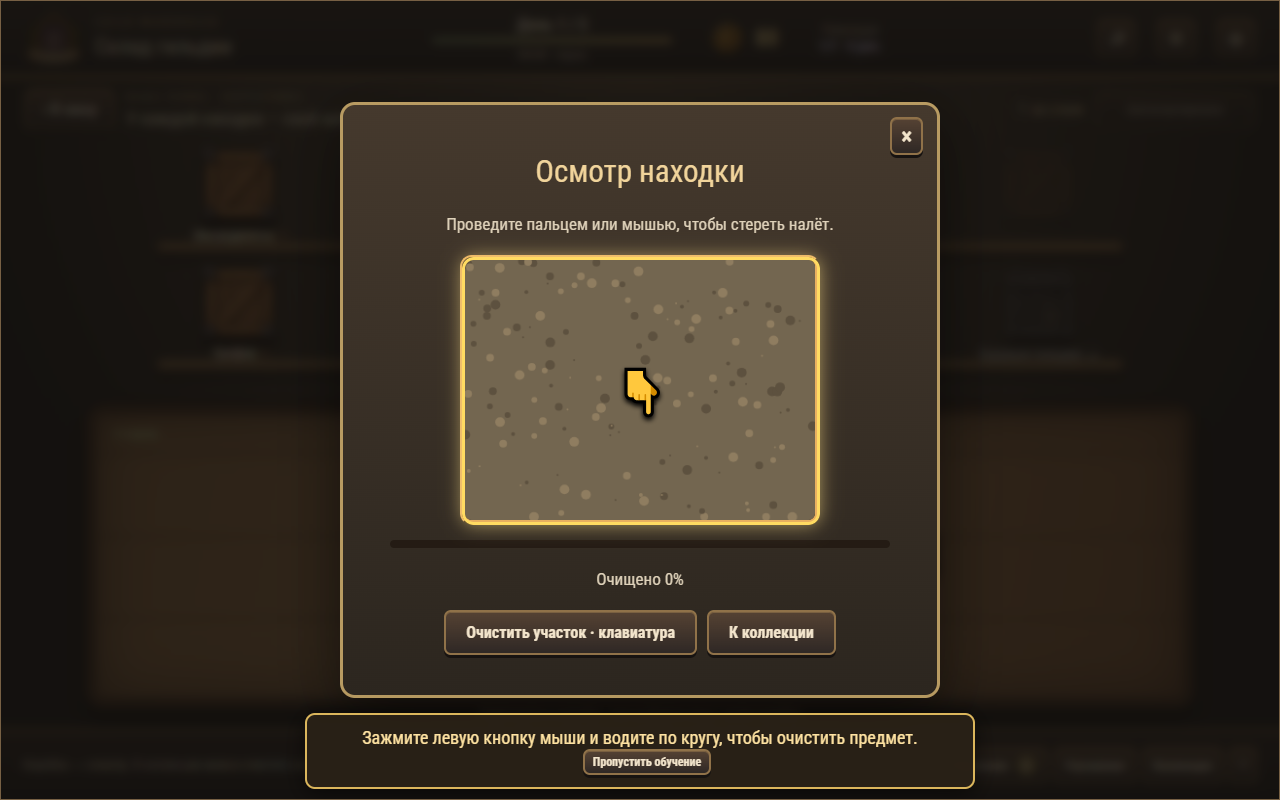
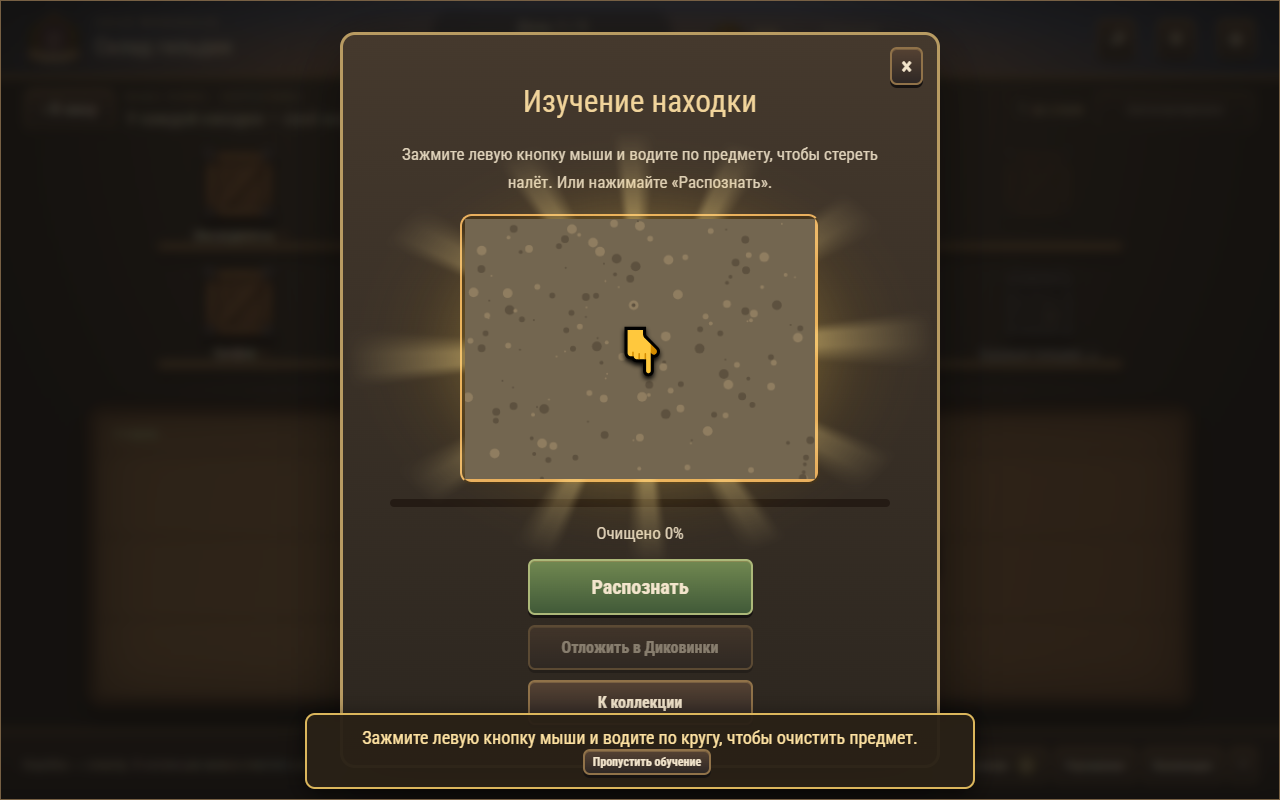
Поправки подсветки предметов
Золотая аура вместо рамок, более мягкая пульсация с замедлением на 30%. Обновлено обучение, изучение неизвестных предметов одним кликом и освещение по периодам суток.

diff --git a/dist/game.js b/dist/game.js
@@ -141,11 +141,27 @@ function modal(html,{locked=false,wide=false,brief=false}={}){
 }
 function closeModal(){if(modalLocked)return;modalCleanup?.();modalCleanup=null;hidden('modal',true);lockBackground(false);state.paused=false;last=performance.now();previousFocus?.isConnected&&previousFocus.focus();updateHud();save();}
 function forceCloseModal(){modalLocked=false;closeModal();}
+function updateDaylight(){
+  const progress=Math.max(0,Math.min(1,1-state.seconds/CONFIG.daySeconds));
+  const periods=['morning','day','evening','night'],labels=['Утро','День','Вечер','Ночь'],stops=[0,.4,.76,1];
+  const phase=progress<.25?0:progress<.65?1:progress<.88?2:3;
+  const sky=$('daylight');
+  if(sky){
+    let segment=0;while(segment<2&&progress>stops[segment+1])segment++;
+    const blend=(progress-stops[segment])/(stops[segment+1]-stops[segment]);
+    periods.forEach((period,i)=>{const weight=i===segment?1-blend:i===segment+1?blend:0;sky.children[i].style.opacity=weight;$('game').style.setProperty('--light-'+period,weight);});
+  }
+  $('clock').textContent=labels[phase];
+  // Future ambient sound can subscribe to a single event per period change.
+  if($('game').dataset.period!==periods[phase]){
+    $('game').dataset.period=periods[phase];
+    $('game').dispatchEvent(new CustomEvent('dayperiodchange',{detail:{period:periods[phase]}}));
+  }
+}
 function updateHud(){
   $('upgradesNav')?.classList.toggle('upgrade-prompt',state.started&&!state.upgradeHintSeen&&(state.day>1||(state.day===1&&state.ended)));
-  const minutes=Math.floor((1-state.seconds/CONFIG.daySeconds)*720)+480;
   $('dayLabel').textContent=`День ${state.day} / 5`;
-  $('clock').textContent=`${String(Math.floor(minutes/60)).padStart(2,'0')}:${String(minutes%60).padStart(2,'0')} · ${state.paused?'пауза':state.seconds===0?'вечер':minutes<720?'утро':minutes<1020?'день':'вечер'}`;
+  updateDaylight();
   $('sunbar').style.width=state.seconds/CONFIG.daySeconds*100+'%';$('gold').textContent=state.gold;
   $('rep').textContent=`${rank()+1}/7 · ${state.rep} реп.`;$('orderBadge').textContent=allOrders().filter(o=>o.accepted!==false).length;
   $('sound').textContent=state.muted?'♫̸':'♫';$('sound').setAttribute('aria-label',state.muted?'Включить звук':'Выключить звук');
@@ -380,11 +396,11 @@ function renderItems(area,list,kind){
 function clickItem(x,kind,e){
   if(state.paused||state.autoSorting)return;
   if(state.inspectCat!==null&&!['inspect','junk','target'].includes(kind))return;
+  if(isUnknown(x)){cancelDrag();openUnknown(x);return;}
   const node=e?.currentTarget||document.querySelector(`.item[data-uid="${x.uid}"][data-kind="${kind}"]`);if(!node)return;
   const r=node.getBoundingClientRect();cancelDrag();state.selected=x.uid;
   drag={uid:x.uid,item:x,node,kind,x:r.left+r.width/2,y:r.top+r.height/2,grabX:r.width/scale/2,grabY:r.height/scale/2,active:false,clickHeld:true};
   liftItem();moveHeld(e?.clientX||drag.x,e?.clientY||drag.y);
-  if(isUnknown(x))showHeldRecognition(x,drag.ghost);
 }
 function trackSortingBag(loot){
   state.sortingBatches??=[];
@@ -565,9 +581,7 @@ function sweep(){if(!state.upgrade||state.paused||!state.bag.length)return;state
 function rarity(type){return type===17||type===23?'Легендарная':type===15||type===28?'Эпическая':type%5===0?'Редкая':'Простая';}
 function openUnknown(x){
   if(state.paused||state.autoSorting||!isUnknown(x))return;
-  modal(`<h2>Неизвестная находка</h2><div class="unknown-preview mystery-item"><img src="${asset(items[x.type].sprite)}" alt="Неизвестная находка"><span class="mystery-question">?</span></div><p>Очистите предмет, чтобы распознать его.</p><button id="inspectUnknown" class="primary">Распознать</button><button id="stashUnknown" ${!state.upgrade||state.junk.includes(x)?'disabled':''}>${state.junk.includes(x)?'Уже в Диковинках':state.upgrade?'Отложить в Диковинки':'Диковинки — сначала откройте сундук'}</button>`);
-  $('inspectUnknown').onclick=()=>openCleaning(x.type,x);
-  $('stashUnknown').onclick=()=>{if(!state.upgrade||state.junk.includes(x))return;state.bag=state.bag.filter(y=>y!==x);state.stock=state.stock.filter(y=>y!==x);state.junk.push(x);closeModal();render();if(state.inspectCat!==null)renderInspection();save();};
+  openCleaning(x.type,x);
 }
 function recognizeItem(type,instance){
   const newlyKnown=!state.collection.includes(type),wasUnknown=instance&&isUnknown(instance);
@@ -586,14 +600,15 @@ function openCollection(){
 }
 function openCleaning(type,instance=owned().find(x=>x.type===type&&isUnknown(x))){
   const it=items[type],done=state.collection.includes(type);
-  modal(`<h2 id="recognitionTitle">${done?it.name:'Осмотр находки'}</h2><p>${done?'Вы распознали эту находку и записали её название в атлас.':'Проведите пальцем или мышью, чтобы стереть налёт.'}</p><div class="clean-stage"><img src="${asset(it.sprite)}" alt="${done?it.name:'Неизученная находка'}"><canvas id="dirt" width="360" height="270" aria-label="Стирайте налёт с находки"></canvas></div><div class="clean-meter"><i id="cleanBar" style="width:${done?100:0}%"></i></div><p id="cleanStatus">${done?'✓ Распознано: '+it.name:'Очищено 0%'}</p><div class="modal-actions"><button id="cleanKey">Очистить участок · клавиатура</button><button id="backCollection">К коллекции</button></div>`);
+  modal(`<h2 id="recognitionTitle">${done?it.name:'Изучение находки'}</h2><p>${done?'Вы распознали эту находку и записали её название в атлас.':'Зажмите левую кнопку мыши и водите по предмету, чтобы стереть налёт. Или нажимайте «Распознать».'}</p><div class="clean-stage"><img src="${asset(it.sprite)}" alt="${done?it.name:'Неизученная находка'}"><canvas id="dirt" width="360" height="270" aria-label="Стирайте налёт с находки"></canvas></div><div class="clean-meter"><i id="cleanBar" style="width:${done?100:0}%"></i></div><p id="cleanStatus">${done?'✓ Распознано: '+it.name:'Очищено 0%'}</p><div class="modal-actions recognition-actions"><button id="cleanKey" class="primary" title="Очистить следующий участок предмета">Распознать</button><button id="stashUnknown" ${!instance||!isUnknown(instance)||!state.upgrade||state.junk.includes(instance)?'disabled':''}>Отложить в Диковинки</button><button id="backCollection">К коллекции</button></div>`);
   const canvas=$('dirt'),ctx=canvas.getContext('2d',{willReadFrequently:true});let down=false,complete=done,strokes=0;
   if(!done){ctx.fillStyle='#736650';ctx.fillRect(0,0,360,270);for(let i=0;i<150;i++){ctx.fillStyle=i%2?'#8f7d60':'#5d513f';ctx.beginPath();ctx.arc(Math.random()*360,Math.random()*270,rand(1,5),0,7);ctx.fill();}}
-  function check(){if(complete)return;const data=ctx.getImageData(0,0,360,270).data;let clear=0;for(let i=3;i<data.length;i+=16)if(data[i]<50)clear++;const pct=Math.round(clear/(data.length/16)*100);$('cleanBar').style.width=pct+'%';$('cleanStatus').textContent=`Очищено ${pct}%`;if(pct>=85){complete=true;ctx.clearRect(0,0,360,270);recognizeItem(type,instance);$('cleanBar').style.width='100%';$('recognitionTitle').textContent=it.name;$('cleanKey').disabled=true;render();if(state.inspectCat!==null)renderInspection();save();beep();}}
+  function check(){if(complete)return;const data=ctx.getImageData(0,0,360,270).data;let clear=0;for(let i=3;i<data.length;i+=16)if(data[i]<50)clear++;const pct=Math.round(clear/(data.length/16)*100);$('cleanBar').style.width=pct+'%';$('cleanStatus').textContent=`Очищено ${pct}%`;if(pct>=85){complete=true;ctx.clearRect(0,0,360,270);recognizeItem(type,instance);$('cleanBar').style.width='100%';$('recognitionTitle').textContent=it.name;$('cleanKey').disabled=true;$('cleanKey').textContent='Распознано';$('stashUnknown').disabled=true;render();if(state.inspectCat!==null)renderInspection();save();beep();}}
   function erase(x,y){if(complete)return;ctx.globalCompositeOperation='destination-out';ctx.beginPath();ctx.arc(x,y,33,0,Math.PI*2);ctx.fill();check();}
   function point(e){const r=canvas.getBoundingClientRect();erase((e.clientX-r.left)/r.width*360,(e.clientY-r.top)/r.height*270);}
   canvas.onpointerdown=e=>{down=true;canvas.setPointerCapture(e.pointerId);point(e);};canvas.onpointermove=e=>{if(down)point(e);};canvas.onpointerup=canvas.onpointercancel=()=>down=false;
-  $('cleanKey').disabled=done;$('cleanKey').onclick=()=>{erase(20+(strokes%8)*45,20+Math.floor(strokes/8)*45);strokes++;};
+  $('cleanKey').disabled=done;if(done)$('cleanKey').textContent='Распознано';$('cleanKey').onclick=()=>{erase(20+(strokes%8)*45,20+Math.floor(strokes/8)*45);strokes++;};
+  $('stashUnknown').onclick=()=>{if(!instance||!isUnknown(instance)||!state.upgrade||state.junk.includes(instance))return;state.bag=state.bag.filter(x=>x!==instance);state.stock=state.stock.filter(x=>x!==instance);delete instance.boxPos;state.junk.push(instance);closeModal();render();if(state.inspectCat!==null)renderInspection();save();};
   $('backCollection').onclick=()=>{closeModal();openCollection();};
 }
 function openRanks(){if(state.paused)return;modal(`<h2>Имя вашей лавки</h2><p>Репутация: ${state.rep}. За выданный заказ +4.<br>В этой истории доступны первые три ранга.</p><div class="rank-list">${rankNames.map((name,i)=>`<div class="rank-row ${i===rank()?'current':''} ${i>2?'locked':''}"><span>${i+1}. ${name}</span><span>${i>2?'🔒 позже':i===rank()?'Ваш ранг':i<rank()?'✓':i*12+' реп.'}</span></div>`).join('')}</div>`);}
@@ -647,6 +662,7 @@ function loadGame(){try{const s=JSON.parse(localStorage.getItem(SAVE_KEY));if(s?
 function help(){if(state.paused)return;modal('<h2>Как работает лавка</h2><div class="rules"><b>Закупка.</b> Купите мешок за 10 монет. Содержимое заранее неизвестно.<br><b>Порядок.</b> Перетаскивайте вещи на полки. Или нажмите вещь, затем коробку. Ошибка подскажет категорию.<br><b>Заказ.</b> Листок справа. Недостающее появится в новых мешках. Откройте коробку и отправляйте нужное в посылку.<br><b>Диковинки.</b> За 20 монет купите временную коробку и убирайте остаток мешка одним действием.<br><b>Атлас.</b> Очистите находку и сохраните её изображение. Товар остаётся для продажи.<br><b>Вечер.</b> Новые приходы прекращаются; закончите дела и нажмите «Закончить день».</div>');}
 
 function setup(){
+  const sky=document.createElement('div');sky.id='daylight';sky.setAttribute('aria-hidden','true');sky.innerHTML='<i class="sky-morning"></i><i class="sky-day"></i><i class="sky-evening"></i><i class="sky-night"></i>';$('game').querySelector(':scope > header').prepend(sky);
   hidden('tooltip',true);$('tooltip').setAttribute('role','tooltip');
   const board=document.createElement('aside');board.id='orderBoard';board.className='hidden';board.setAttribute('aria-label','Принятые поручения');$('game').append(board);
   $('game').addEventListener('pointerover',e=>{

diff --git a/dist/prototype.css b/dist/prototype.css
@@ -291,15 +291,13 @@ html,body,body *,body *::before,body *::after{font-family:'Roboto Condensed',san
 #work:has(#inspector.junk-open:not(.hidden)) #checklist{visibility:hidden}
 #effects:has(#tutorialGuide){z-index:1500}
 #tutorialGuide{position:absolute;inset:0;z-index:1500;pointer-events:none}
-.tutorial-ring{position:absolute;border:3px solid #ffdb62;border-radius:12px;box-shadow:0 0 18px #ffe18799;animation:tutorialPulse 1s ease-in-out infinite}
 .tutorial-hand{position:absolute;font-size:44px;line-height:1;text-shadow:0 3px 5px #000;animation:tutorialPoint 1s ease-in-out infinite}
 .tutorial-note{position:absolute;bottom:10px;left:50%;transform:translateX(-50%);width:670px;max-width:90%;padding:12px 16px;background:#292016f5;border:2px solid #dbb65c;border-radius:10px;text-align:center;color:#ffe3a2;box-shadow:0 5px 22px #0008;font-size:18px}
 .tutorial-note button{pointer-events:auto;font-size:12px;padding:4px 8px;margin-left:14px}
 .cleaning .tutorial-hand{animation:tutorialClean 1.7s linear infinite}
-@keyframes tutorialPulse{50%{box-shadow:0 0 28px #ffdc63;opacity:.65}}
 @keyframes tutorialPoint{50%{transform:translateY(10px)}}
 @keyframes tutorialClean{0%{transform:translate(40px,0)}25%{transform:translate(0,35px)}50%{transform:translate(-40px,0)}75%{transform:translate(0,-35px)}100%{transform:translate(40px,0)}}
-@media(prefers-reduced-motion:reduce){.tutorial-ring,.tutorial-hand,.cleaning .tutorial-hand{animation:none}}
+@media(prefers-reduced-motion:reduce){.tutorial-hand,.cleaning .tutorial-hand{animation:none}}
 
 /* Guest alert stays above the workbench, open boxes and dialogs. */
 #arrivalSignal{bottom:82px;left:28px;z-index:400000;pointer-events:auto}
@@ -320,3 +318,52 @@ html,body,body *,body *::before,body *::after{font-family:'Roboto Condensed',san
 #orderBoard .order-card small{grid-column:2;grid-row:1;font-size:11px}
 .order-card-action{grid-column:2;grid-row:2;font-size:13px;color:#4d5428}
 @media(prefers-reduced-motion:reduce){#arrivalSignal.waiting:not(.compact),#ship.dispatch-ready{animation:none}}
+
+/* Soft radial rays replace interaction outlines and tutorial frames. */
+:where(button,[role="button"]){position:relative;isolation:isolate}
+:where(.clean-stage,#parcelDrop){isolation:isolate}
+:where(button,[role="button"],#parcelDrop,.clean-stage)::after{
+ content:'';position:absolute;inset:-24%;z-index:-1;pointer-events:none;border:0;border-radius:50%;opacity:0;
+ background:radial-gradient(ellipse,#fff0b066 0%,#ffd25655 28%,#e9a8251a 50%,transparent 70%),repeating-conic-gradient(from 12deg,#ffd86b00 0deg,#ffcc491a 7deg,#ffcc4966 15deg,#ffcc491a 23deg,#ffd86b00 30deg);
+ mask-image:radial-gradient(ellipse,#000 8%,#0009 32%,transparent 68%);filter:blur(5px);
+}
+:where(button,[role="button"],#parcelDrop):not(:disabled):is(:hover,:focus-visible,.tutorial-focus,.chosen,.drop-ready,.upgrade-prompt,.dispatch-ready)::after,
+.clean-stage.tutorial-focus::after{opacity:1;animation:goldenAura 2.143s ease-in-out infinite}
+@keyframes goldenAura{0%,100%{opacity:.6;transform:scale(.97) rotate(-1.5deg)}50%{opacity:.82;transform:scale(1.03) rotate(1.5deg)}}
+button:focus-visible,[role="button"]:focus-visible{outline:none}
+.item.chosen{animation:none;outline:none;border:0;box-shadow:none;background:none}
+.shelf-box.drop-ready{outline:none;border:0;border-radius:0;background:none;filter:none}
+#parcelDrop.drop-ready{outline:none}
+.item.tutorial-focus{z-index:200001!important}
+.shelf-box:is(:hover,.tutorial-focus,.drop-ready) .boxart{filter:drop-shadow(0 0 5px #ffcf67)}
+#upgradesNav.upgrade-prompt,#ship.dispatch-ready{animation:none;box-shadow:0 3px 0 #171311}
+#arrivalSignal.waiting:not(.compact){box-shadow:0 5px 14px #160e09aa;animation:arrivalWarmth 1.5s ease-in-out infinite}
+@keyframes arrivalWarmth{50%{background:#795d2df5}}
+.recognition-actions{display:grid;grid-template-columns:1fr 1fr;justify-items:center;gap:10px;margin:12px auto 0}
+.recognition-actions button{min-width:225px}
+.recognition-actions #cleanKey{grid-column:1/-1;font-size:20px}
+#modalContent:has(.recognition-actions) .clean-stage{overflow:visible;width:320px;height:240px;border:0;background:none;border-radius:0}
+#modalContent:has(.recognition-actions) #cleanStatus{margin:9px 0;min-height:26px}
+/* Four blended skies keep time readable without numerical countdowns. */
+#game>header{isolation:isolate;background:#18222c}
+#daylight{position:absolute;inset:0;z-index:-1;overflow:hidden;pointer-events:none}
+#daylight i{position:absolute;inset:0;opacity:0;transition:opacity .4s linear}
+#daylight::after{content:'';position:absolute;inset:0;background:linear-gradient(90deg,#161719bb,transparent 38%,transparent 62%,#101723b0)}
+.sky-morning{background:radial-gradient(ellipse at 48% 110%,#ffe5a5 0%,#c88e66 25%,#5b6680 68%,#303f58)}
+.sky-day{background:radial-gradient(ellipse at 51% -25%,#fff4ba 0%,#8cbbcc 38%,#436780 77%,#304759)}
+.sky-evening{background:radial-gradient(ellipse at 55% 105%,#d98c51 0%,#714862 34%,#28354f 75%,#202535)}
+.sky-night{background:radial-gradient(circle at 55% 24%,#e4e8f4 0 2px,transparent 3px),radial-gradient(circle at 36% 60%,#9caecc 0 1px,transparent 2px),radial-gradient(circle at 64% 45%,#c2d1e4 0 1px,transparent 2px),radial-gradient(ellipse at 50% 0,#253859,#101729 70%)}
+#game>header .day{padding:6px 14px;border-radius:20px;background:#10203165;text-shadow:0 1px 3px #101728;gap:3px}
+#game>header .day .suntrack{display:none}
+#game>header #clock{font-size:17px;font-weight:600;letter-spacing:1px;color:#ffe5ad}
+#game[data-period="night"]>header #clock{color:#d0dffa}
+@media(prefers-reduced-motion:reduce){
+ :where(button,[role="button"],#parcelDrop,.clean-stage)::after{animation:none!important;transform:none!important}
+ #daylight i{transition:none}
+}
+
+/* Keep the counter lit while the city outside follows the sky. */
+#reception::before,#reception::after{content:'';position:absolute;inset:0 0 35%;z-index:0;pointer-events:none;transition:opacity .4s linear}
+#reception::before{background:linear-gradient(#7e382344,#fca44a44 50%,transparent);opacity:var(--light-evening,0)}
+#reception::after{background:linear-gradient(#070e28d9,#0b173bc9 72%,transparent);opacity:var(--light-night,0)}
+@media(prefers-reduced-motion:reduce){#reception::before,#reception::after{transition:none}}

diff --git a/dist/tutorial.js b/dist/tutorial.js
@@ -1,5 +1,7 @@
 'use strict';
 const TUTORIAL_KEY='guild-warehouse-tutorial-completed-v1';
+let tutorialTarget=null;
+function clearTutorialHighlight(){tutorialTarget?.classList.remove('tutorial-focus');tutorialTarget=null;}
 function startTutorial(){
   try{if(localStorage.getItem(TUTORIAL_KEY)==='1')return;}catch{}
   const offer=state.schedule.shift();if(!offer)return;
@@ -11,25 +13,25 @@ function startTutorial(){
 function finishTutorial(skipped=false){
   if(state.tutorial)state.tutorial.active=false;
   try{localStorage.setItem(TUTORIAL_KEY,'1');}catch{}
-  $('tutorialGuide')?.remove();render();save();
+  clearTutorialHighlight();$('tutorialGuide')?.remove();render();save();
   if(!skipped)toast('Обучение завершено! Продолжайте собирать поручение.');
 }
 function tutorialGuide(target,message,cleaning=false){
   let guide=$('tutorialGuide');
-  if(!guide){guide=document.createElement('div');guide.id='tutorialGuide';guide.innerHTML='<div class="tutorial-ring"></div><div class="tutorial-hand" aria-hidden="true">👇</div><div class="tutorial-note"><span role="status" aria-live="polite"></span><button>Пропустить обучение</button></div>';$('effects').append(guide);guide.querySelector('button').onclick=()=>finishTutorial(true);}
+  if(!guide){guide=document.createElement('div');guide.id='tutorialGuide';guide.innerHTML='<div class="tutorial-hand" aria-hidden="true">👇</div><div class="tutorial-note"><span role="status" aria-live="polite"></span><button>Пропустить обучение</button></div>';$('effects').append(guide);guide.querySelector('button').onclick=()=>finishTutorial(true);}
   const text=guide.querySelector('.tutorial-note span');if(text.textContent!==message)text.textContent=message;
   guide.classList.toggle('cleaning',cleaning);
-  const ring=guide.querySelector('.tutorial-ring'),hand=guide.querySelector('.tutorial-hand');
-  if(!target||!target.getClientRects().length){ring.style.display=hand.style.display='none';return;}
-  ring.style.display=hand.style.display='';
+  const hand=guide.querySelector('.tutorial-hand'),highlight=target?.tagName==='CANVAS'?target.parentElement:target;
+  if(tutorialTarget!==highlight){clearTutorialHighlight();tutorialTarget=highlight;tutorialTarget?.classList.add('tutorial-focus');}
+  if(!target||!target.getClientRects().length){clearTutorialHighlight();hand.style.display='none';return;}
+  hand.style.display='';
   const r=target.getBoundingClientRect(),g=$('game').getBoundingClientRect(),x=(r.left-g.left)/scale,y=(r.top-g.top)/scale,w=r.width/scale,h=r.height/scale;
-  Object.assign(ring.style,{left:(x-4)+'px',top:(y-4)+'px',width:(w+8)+'px',height:(h+8)+'px'});
   Object.assign(hand.style,{left:(x+w/2-22)+'px',top:Math.max(4,cleaning?y+h/2-20:y-48)+'px'});
 }
 function tutorialFrame(){
-  const t=state.tutorial;if(!state.started||!t?.active){$('tutorialGuide')?.remove();return;}
+  const t=state.tutorial;if(!state.started||!t?.active){clearTutorialHighlight();$('tutorialGuide')?.remove();return;}
   const modalOpen=!$('modal').classList.contains('hidden');
-  if(modalOpen&&$('resetLevel')){$('tutorialGuide')?.remove();return;}
+  if(modalOpen&&$('resetLevel')){clearTutorialHighlight();$('tutorialGuide')?.remove();return;}
   if($('autoSortButton'))$('autoSortButton').disabled=true;
   if($('sweepButton'))$('sweepButton').disabled=true;
   if(t.stage==='bag'){
@@ -46,8 +48,7 @@ function tutorialFrame(){
       if($('dirt')){
         if($('cleanKey').disabled)tutorialGuide($('closeModal'),'Предмет распознан! Закройте окно крестиком.');
         else tutorialGuide($('dirt'),'Зажмите левую кнопку мыши и водите по кругу, чтобы очистить предмет.',true);
-      }else if($('inspectUnknown'))tutorialGuide($('inspectUnknown'),'Нажмите «Распознать», чтобы очистить неизвестную находку.');
-      else tutorialGuide($('closeModal'),'Закройте окно и продолжите обучение.');return;
+      }else tutorialGuide($('closeModal'),'Закройте окно и продолжите обучение.');return;
     }
     if(state.screen!=='work'||state.mode!=='sort'){tutorialGuide($('resumeBag')||$('goWork'),'Вернитесь к столу и разложите находки.');return;}
     if(state.inspectCat!==null){tutorialGuide($('closeInspector'),'Закройте ящик, чтобы продолжить сортировку.');return;}
@@ -58,7 +59,7 @@ function tutorialFrame(){
       tutorialGuide(held?shelf:node,held?`Положите «${item.name}» в «${categories[item.cat].name}».`:`Возьмите «${item.name}» и перенесите в «${categories[item.cat].name}». Можно также нажать предмет, затем ящик.`);return;
     }
     const unknown=state.bag.find(isUnknown);
-    if(unknown){tutorialGuide($('heldRecognize')||document.querySelector(`#pile [data-uid="${unknown.uid}"]`),$('heldRecognize')?'Нажмите «Распознать предмет в руках».':'Осталась неизвестная находка. Возьмите чёрный предмет со знаком вопроса.');return;}
+    if(unknown){tutorialGuide(document.querySelector(`#pile [data-uid="${unknown.uid}"]`),'Нажмите на неизвестную находку, чтобы сразу открыть изучение.');return;}
     if(!state.bag.length){
       const previous=state.dayOrdersCreated||0;
       if(createOrder(true)){state.orderSchedule.shift();const order=allOrders().find(o=>o.accepted===false);t.orderId=order.id;t.stage='guest';render();save();}
